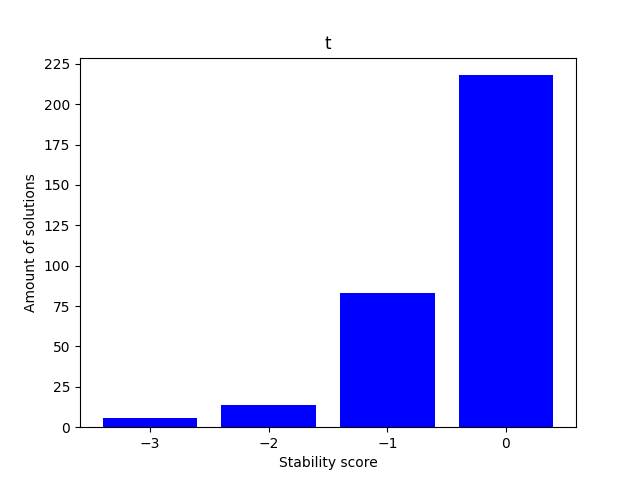
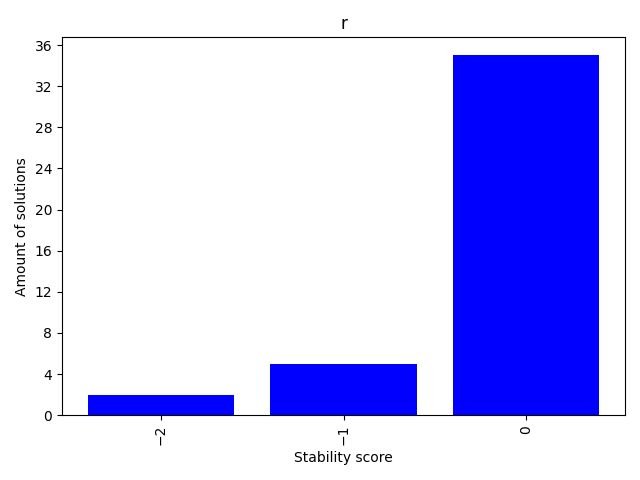
rip pull

diff --git a/code/algorithms/hill_climber.py b/code/algorithms/hill_climber.py
@@ -151,7 +151,10 @@ class HillClimber(Random):
         # Get the amino acid coordinates and the coordinates around it 
         lst = protein.get_sorted_positions()
         position = lst[aminoacid.index][0]
+        print(f"amino acid on: {position}")
         surrounding_coordinates = protein.get_surrounding_coordinates(position[0], position[1])
+        print(f"surrounding cors: {surrounding_coordinates}")
+        print(f"looking for {next_coordinates}")
         folds = protein.get_fold_list()
 
         # Find fold for amino acid
@@ -244,7 +247,7 @@ class HillClimber_Pull(HillClimber):
             return False
 
         # If second amino acid is the first amino acid of the protein, pull anywhere
-        if i.index == 0:
+        if second_amino.index == 0:
             loc_L = choice(free_coordinates)
             self.change_coordinates(protein, second_amino, loc_L)
             self.change_folding(protein, second_amino, third_amino_cor)
@@ -292,15 +295,18 @@ class HillClimber_Pull(HillClimber):
         backwards_index = first.index
 
         # Pull until the chain is back together
+        
         while not prev in surrounding_acids and prev.index < backwards_index:
-            
+            print(prev.index)
             # Pull the previous amino acid in the chain
             next_cor = original_positions[backwards_index][0]
+            print(next_cor)
             self.change_coordinates(protein, prev, next_cor)
 
             # Change the folding of that same amino acid
             sorted_lst = protein.get_sorted_positions()
             next_acid_cor = sorted_lst[prev.index + 1][0]
+            print(sorted_lst[prev.index + 1])
             self.change_folding(protein, prev, next_acid_cor)
 
             # Get parameters to check if the chain is back together
@@ -323,4 +329,4 @@ class HillClimber_Pull(HillClimber):
         Cy = point_A[1] + delta_y
         point_C = (Cx, Cy)
 
-        return C
+        return point_C

diff --git a/code/visualisation/visualize.py b/code/visualisation/visualize.py
@@ -2,9 +2,7 @@ import matplotlib
 matplotlib.use('Agg')
 
 import csv
-import numpy as np
 import matplotlib.pyplot as plt
-import matplotlib as mpl
 from matplotlib.ticker import MaxNLocator
 from code.classes.protein import Protein
 from code.algorithms.randomize import Random
@@ -43,11 +41,11 @@ def visualize(lst):
     plt.ylabel('Y-coordinates')
     ax.yaxis.set_major_locator(MaxNLocator(integer=True))
     plt.xlabel('X-coordinates')
-    ax.xaxis.set_major_locator(MaxNLocator(integer=True))
+    ax.set_xticks(data["x"])
 
     # Label all amino acids within the plot
     for x, y, label in zip(data["x"], data["y"], data["label"]):
-        plt.annotate(label, xy = (x, y))
+        plt.annotate(label, xy = (x, y), xytext=(x+0.1, y+0.1))
 
     # Give a title to the grid plot
     while True:
@@ -73,13 +71,12 @@ def bar(algorithm, algor):
     # Set both the X- and Y-axis to integer values and label those
     ax = plt.gca()
 
-    # Create lists of all labels and values for the X-axis
-    x_labels = []
+    # Create lists of all labels for values for the X-axis
     all_scores = []
-    for key in algorithm.sol_dict:  
-        x_labels.append(key)
+    for key in algorithm.sol_dict:
         all_scores.append(key)
 
+    plt.xticks(rotation=90)
     ax.set_xticks(all_scores)
     plt.xlabel('Stability score')
 
@@ -102,4 +99,5 @@ def bar(algorithm, algor):
             print("Please give a valid title (string).")
     
     plt.title(name)
+    plt.tight_layout()
     plt.savefig("data/output/bar.png", format="png")

diff --git a/code/algorithms/greedy.py b/code/algorithms/greedy.py
@@ -150,7 +150,6 @@ class Greedy(Random):
 
                 # For GreedyLookahead, return final dict positions and proceed to next iteration
                 elif type(temp_index) is dict:
-                    protein.positions = temp_index
                     break
 
                 # Update global parameters and continue with next amino acid
@@ -186,7 +185,7 @@ class GreedyLookahead(Greedy, GreedyDepth):
         depth_first.run_depthfirst()
 
         # Isolate information from best result from depth first algorithm
-        best_solution = depth_first.get_best_solution()
+        best_solution = depth_first.get_best()
 
         if not best_solution:
 

diff --git a/code/algorithms/depth_first.py b/code/algorithms/depth_first.py
@@ -80,7 +80,7 @@ class DepthFirst():
             self.sol_dict[new_protein.score] = 1
 
         # Check if solution is better than previous solutions, if so overwrite it
-        if new_stability < self.best_stability:
+        if new_stability < self.best_stability or not self.best_solutions:
             self.best_stability = new_stability
             self.best_solutions = [new_protein.score, new_protein.positions]
 

diff --git a/code/algorithms/randomize.py b/code/algorithms/randomize.py
@@ -47,6 +47,7 @@ class Random():
                 
             # Fail save for GreedyLookahead algorithm
             elif type(new_coordinates) is dict:
+                protein.aminoacids[-1].folding = 0
 
                 return new_coordinates, 0, 0
             

diff --git a/README.md b/README.md
@@ -23,7 +23,7 @@ pip3 install -r requirements.txt
 
 ## Usage
 
-This is the input needed to run the program:
+This program makes use of command-line arguments. This is the input needed to run the program:
 
 ```
 python3 main.py source_file protein_id
@@ -46,7 +46,7 @@ p = hill climber (pull version)
 s = simulated annealing
 d = depth first
 ```
-Choose an algorithm, for example random, r:
+Choose an algorithm, for example **random**, **r**:
 
 Then the program will ask how often you want to run the algorithm:
 
@@ -104,7 +104,8 @@ And finally:
 Program completed!
 ```
 
-##### Varies slightly per algorithm but the questions in the terminal will tell you what you need to input to get the results.
+##### The running of this program varies slightly per algorithm but the questions in the terminal will tell you what you need to input to get the results.
+
 
 ## Repository Structure
 
@@ -121,6 +122,8 @@ The following list describes the data and results directories, and where to find
 * **/data/output**: contains the output files after running the program; the bar.png, grid.png and a .csv file that contains the amino acids, their foldings and the stability score.
 
 ## The Algorithms
+
+The following are short descriptions of how each algorithm works.
 
 ### Random
 
@@ -150,6 +153,7 @@ The Simulated Annealing Pull algoritm works the same as the regular Simulated An
 
 ## Authors
 
+**Team BioTrio:**
 * Eva van der Heide
 * Kaiden Sewradj 
 * Wouter Vincken
